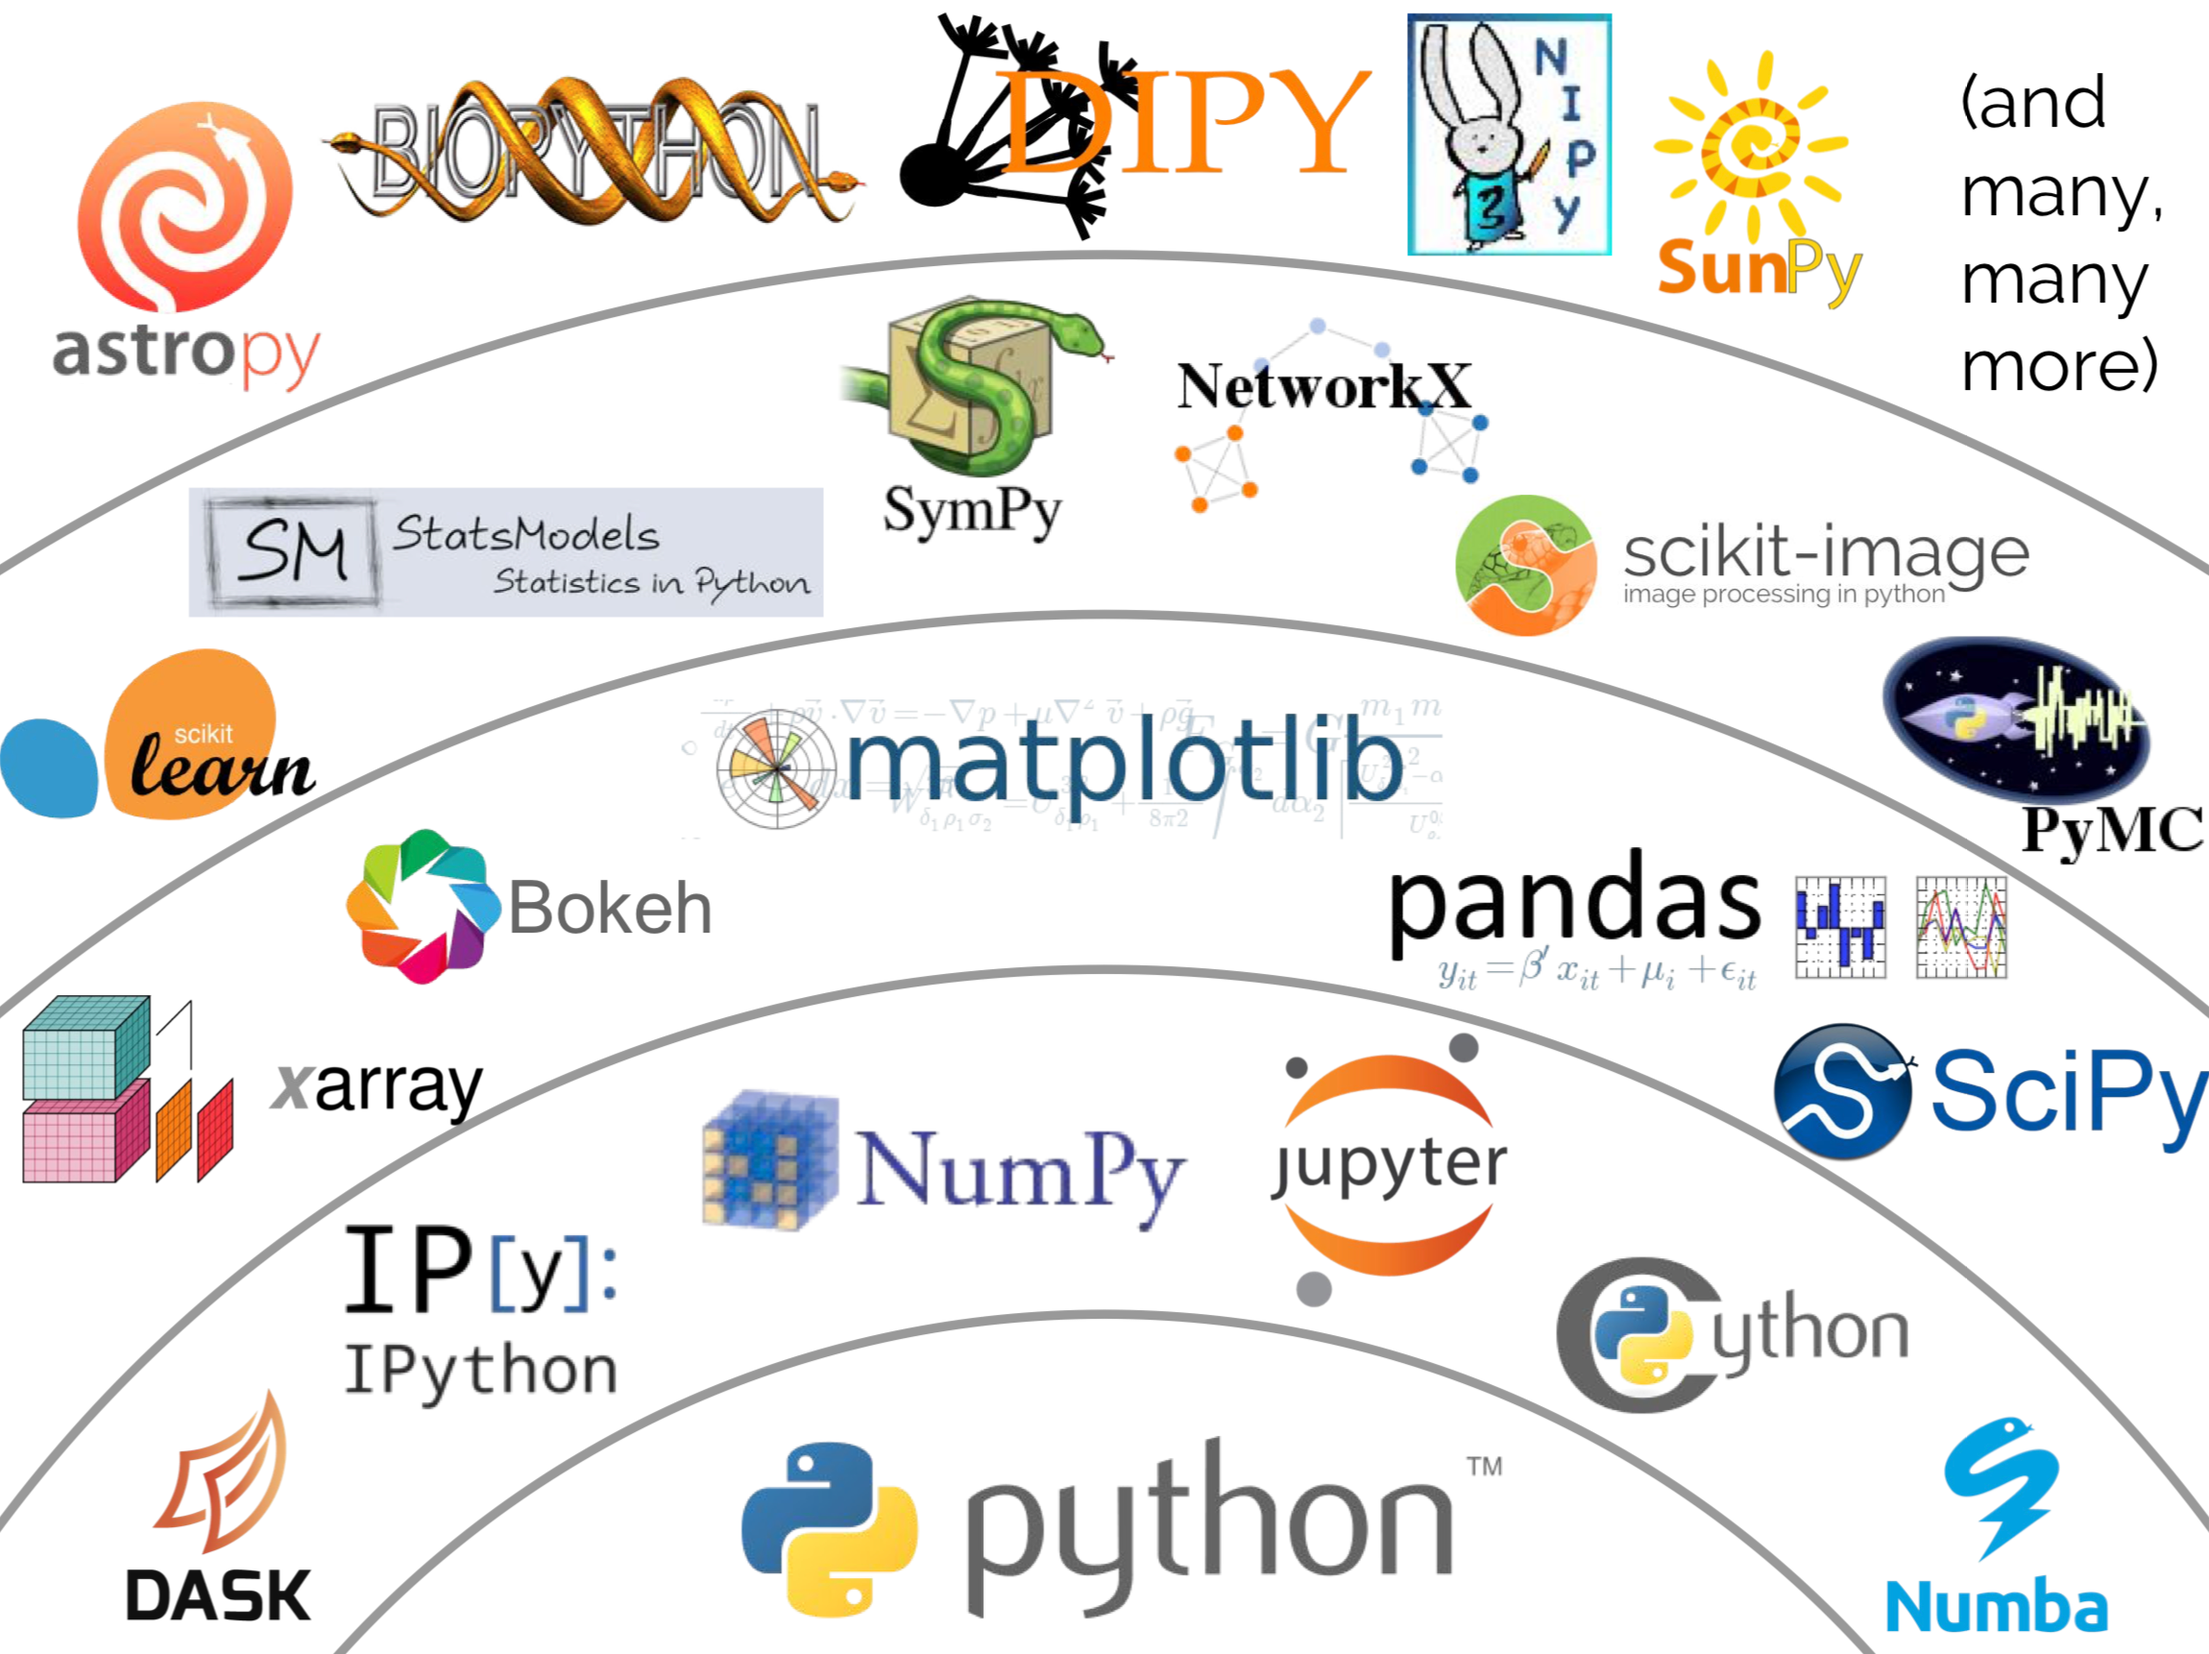
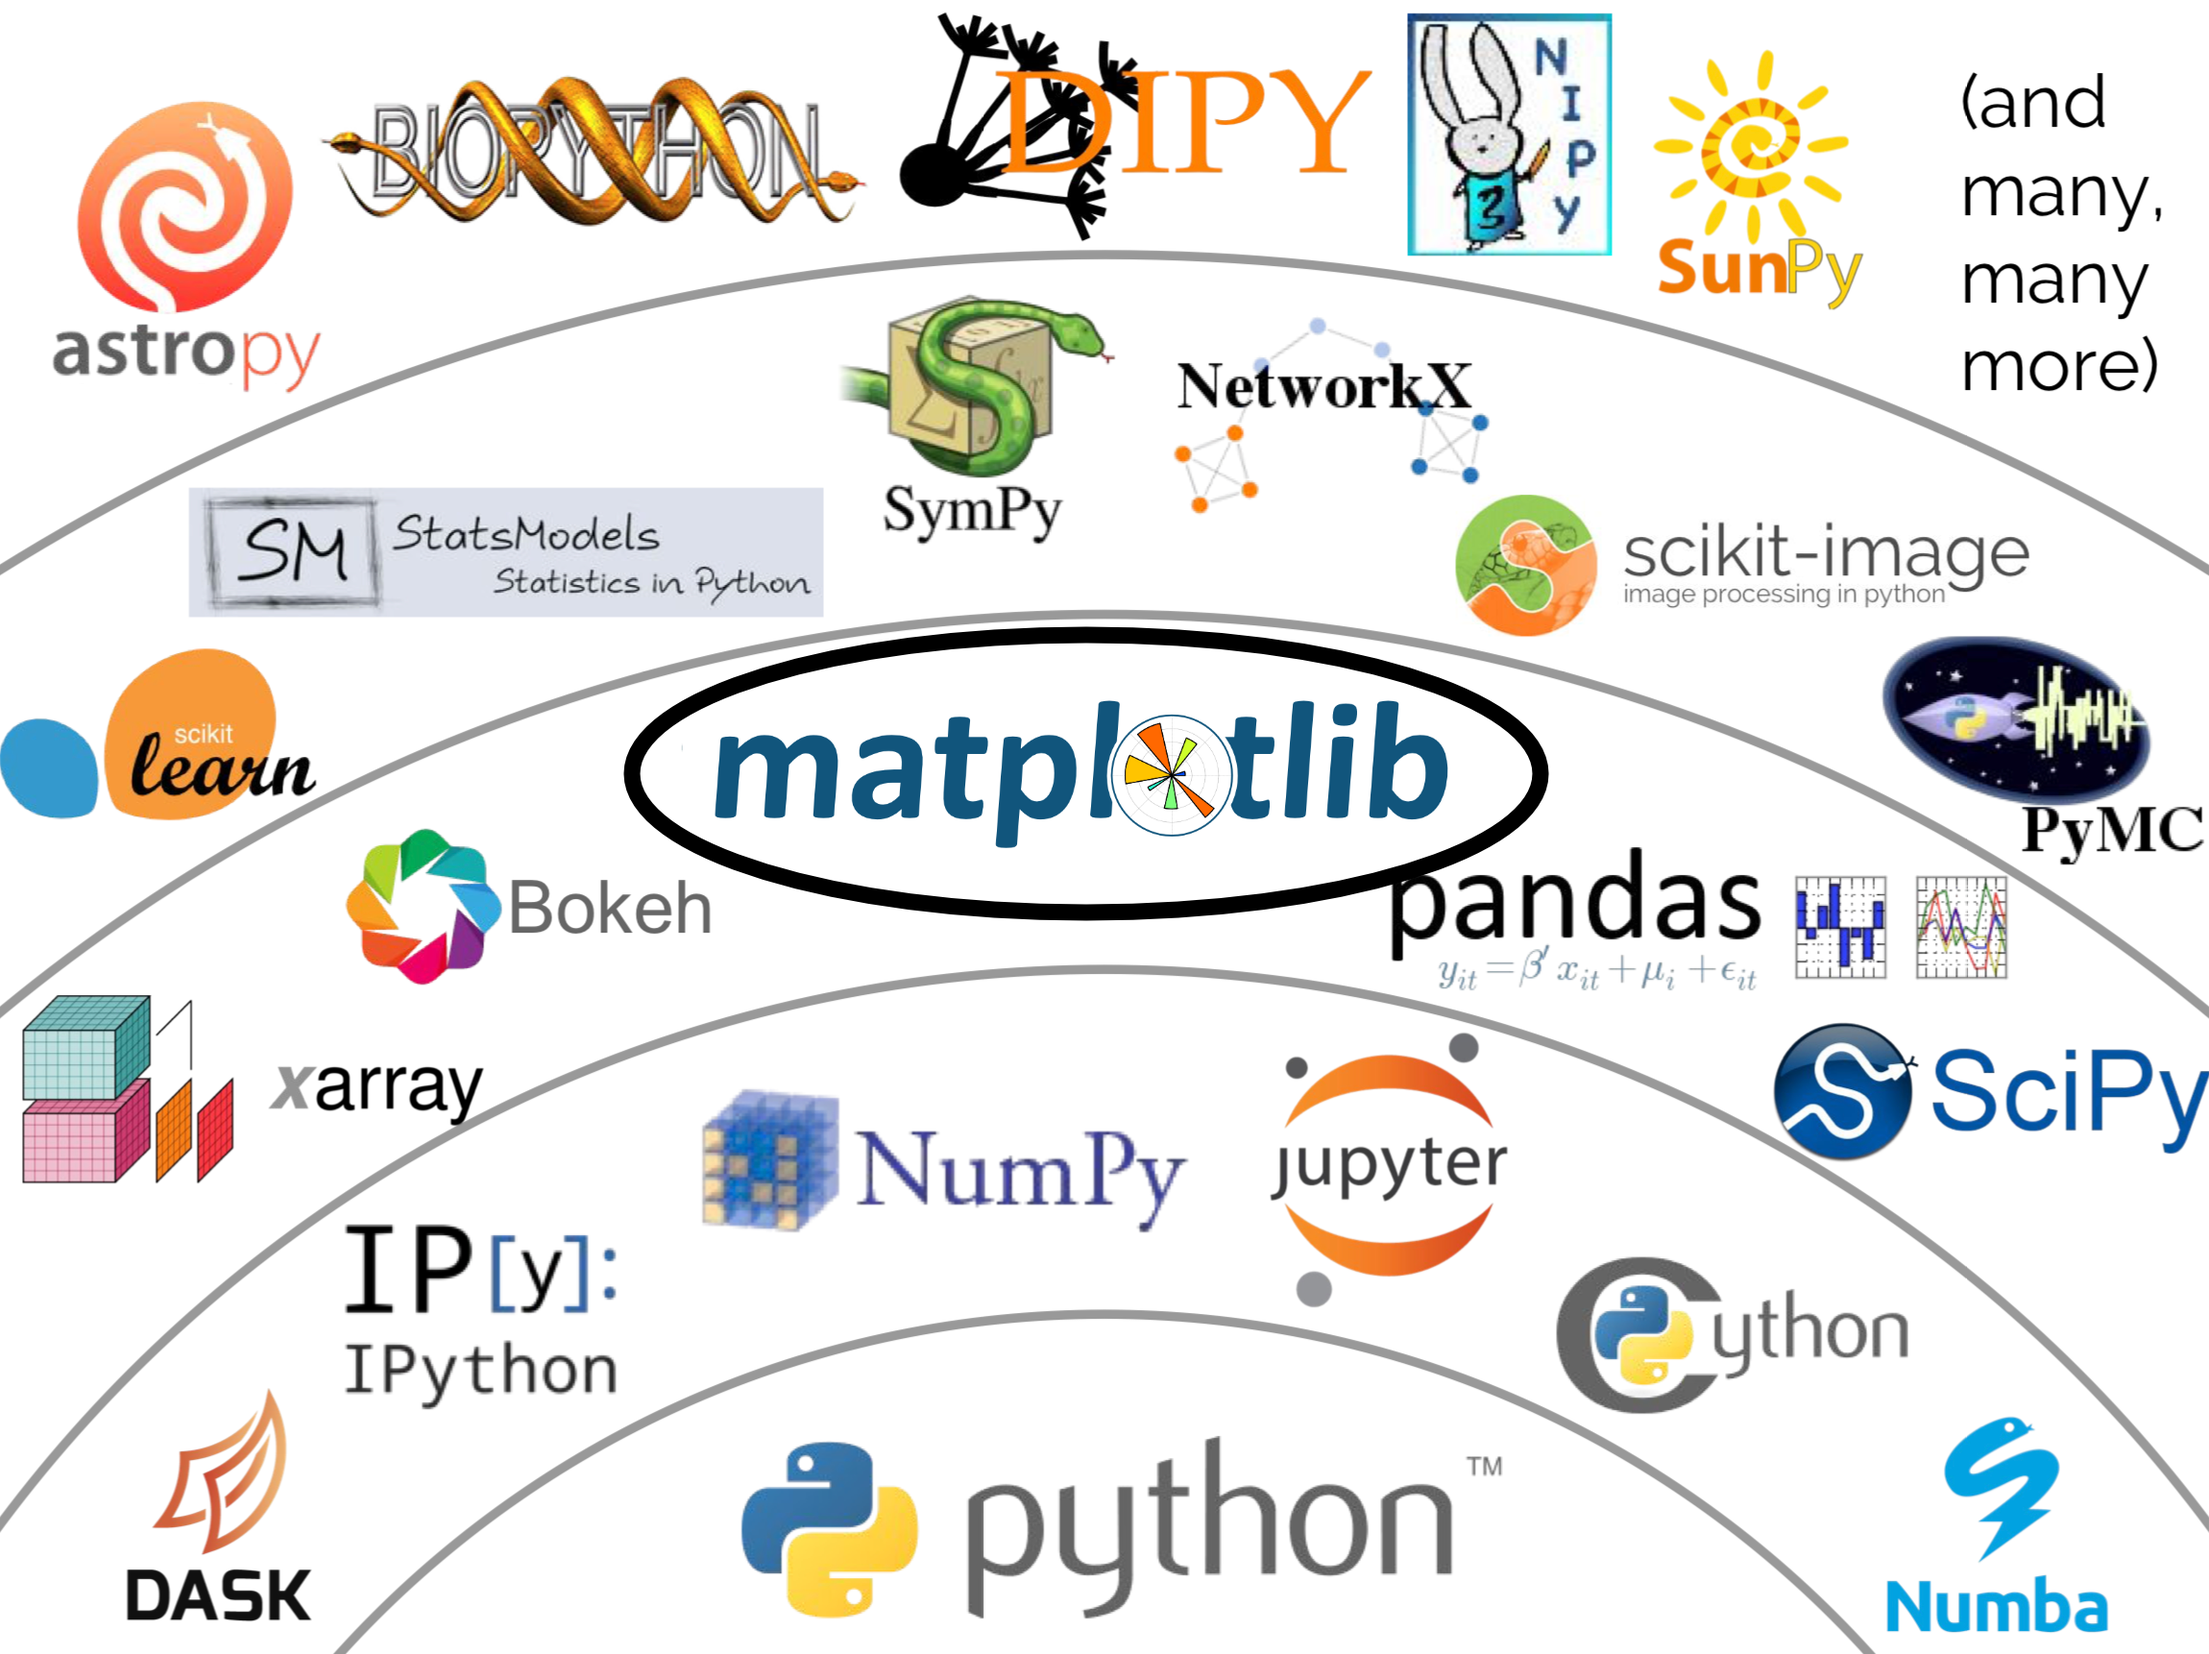
Circle Matplotlib in diagram

Changed region(s): [[0.2778, 0.3693, 0.71, 0.554]]

diff --git a/proposal/matplotlib_cartopy.tex b/proposal/matplotlib_cartopy.tex
@@ -237,10 +237,10 @@ while enabling direct access to the underlying libraries when needed.
 \begin{wrapfigure}{r}{0.5\textwidth}
   \includegraphics[width=0.45\textwidth]{scipy-ecosystem}
   \caption{A schematic of the Scientific Python ecossytem.  At the
-    center we have the Python language itself with concentric rings of
+    core we have the Python language itself with concentric rings of
     domain agnostic to domain specific libraries.  Both AstroPy (top
     left) and SunPy (top right), used in the astrophysics and
-    heliophysics divisions respectively, rely on Matplotlib.
+    heliophysics divisions respectively, rely on Matplotlib (center, circled)
     Credit: Jake van der Plas, ``The Unexpected Effectiveness of Python
     in Science'', PyCon 2017}
   \label{fig:ecosystem}
